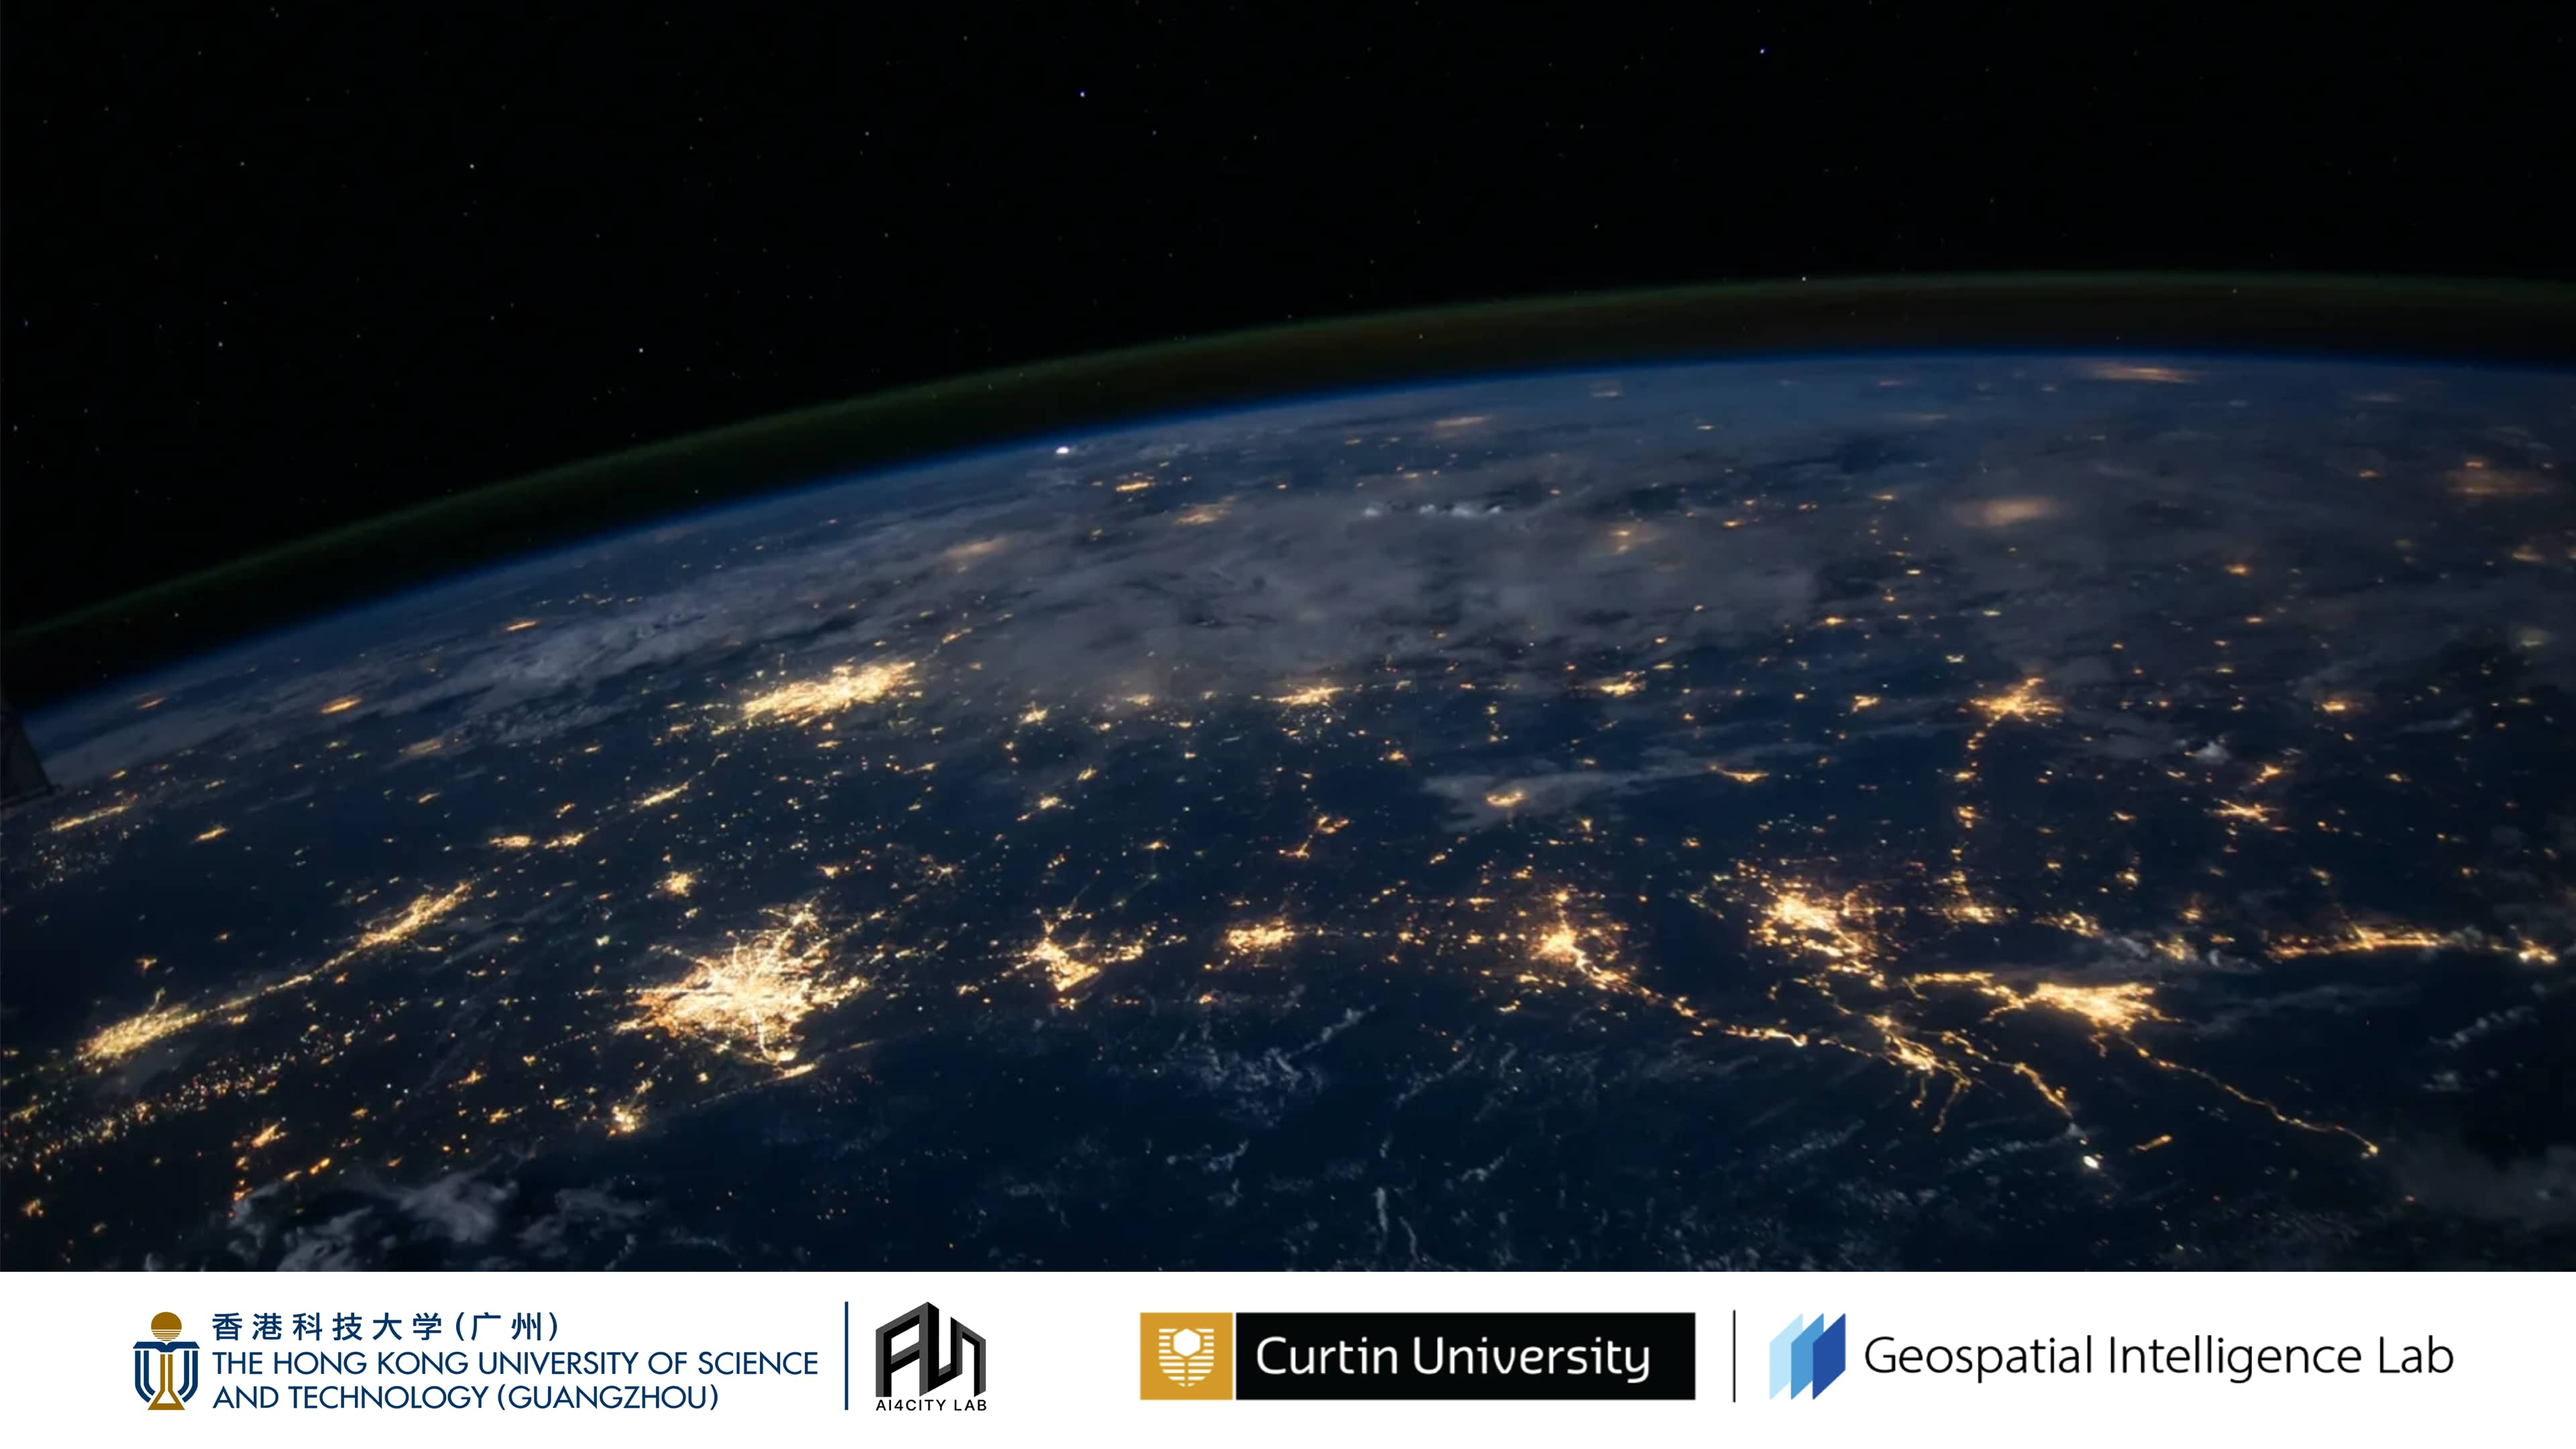
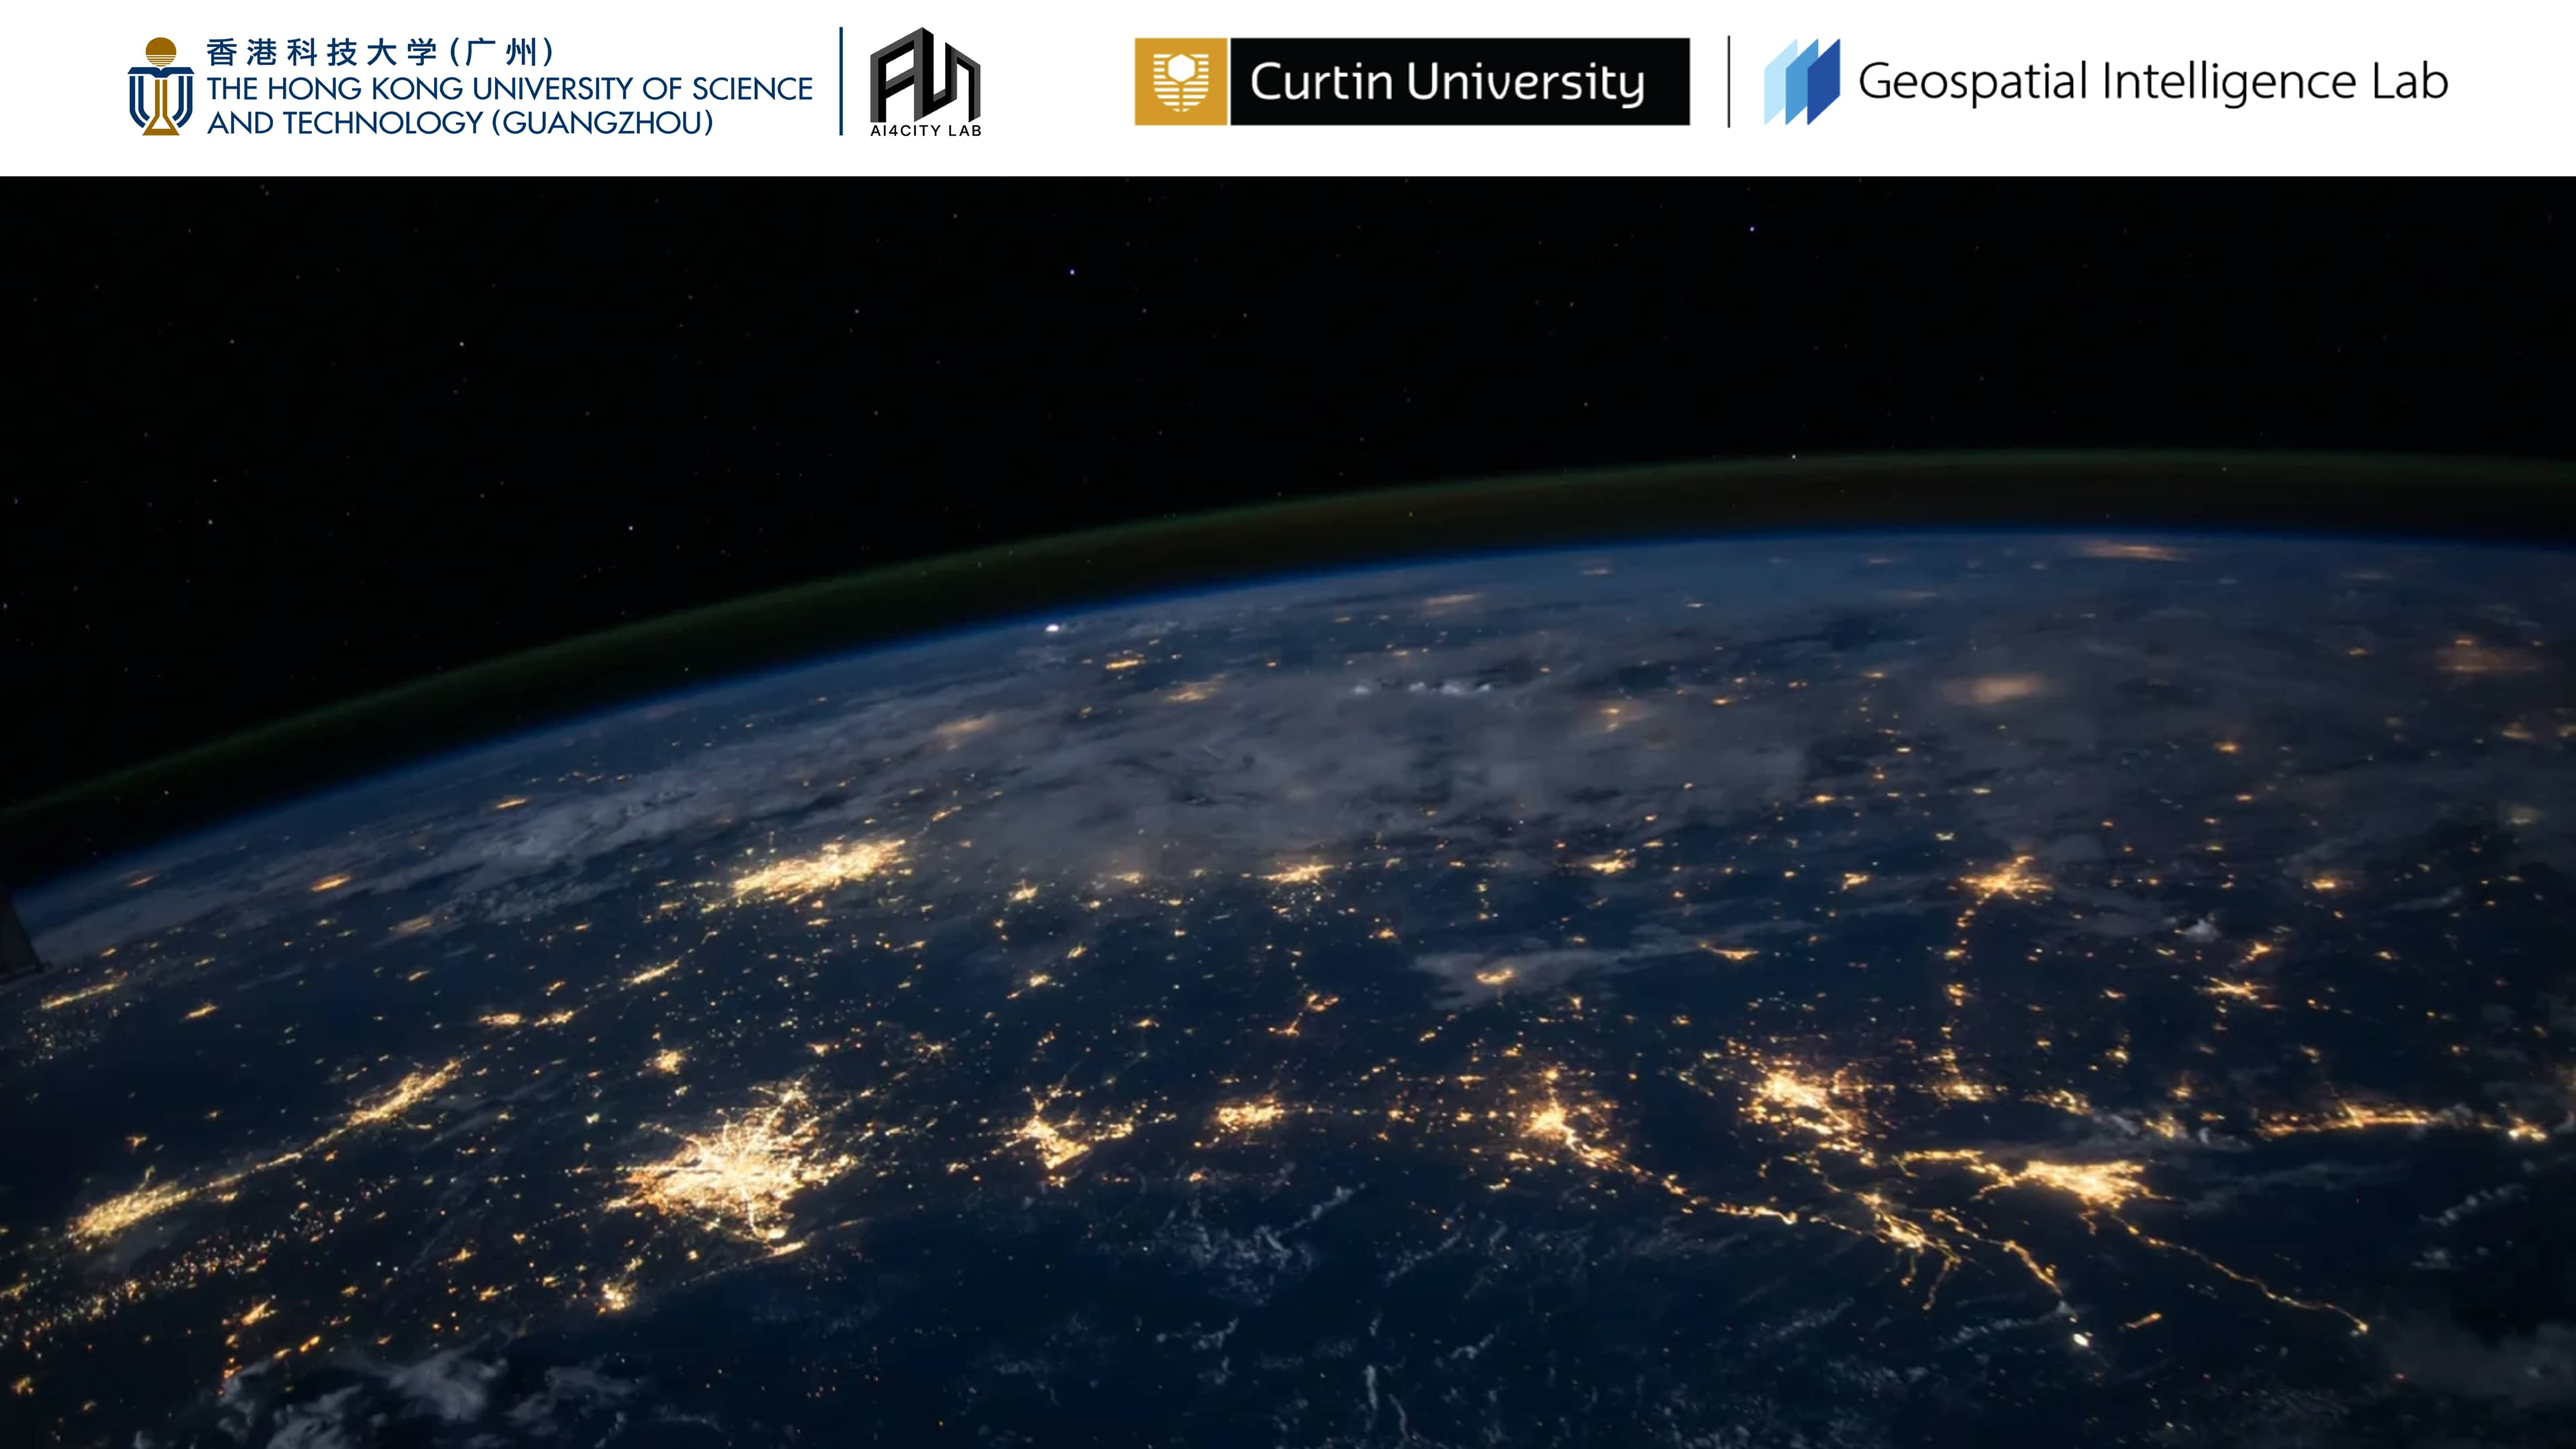
update assets

diff --git a/inst/rmarkdown/templates/spatialmethods-presentation/skeleton/assets/custom.css b/inst/rmarkdown/templates/spatialmethods-presentation/skeleton/assets/custom.css
@@ -1,5 +1,5 @@
 .title-slide {
-  background-image: url(partners.jpg), url(title_bg.jpg);
+  background-image: url(title_bg1.png);
   background-position: 0px 583px, 0% 0%;
   background-size: 100%, 100%;
 }
